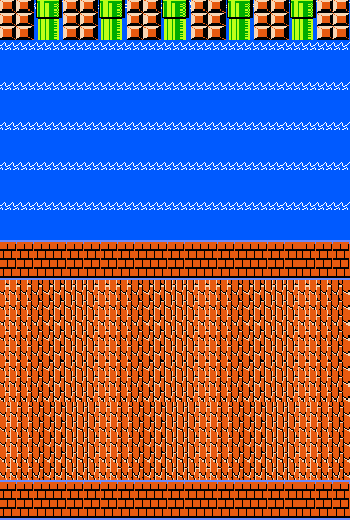
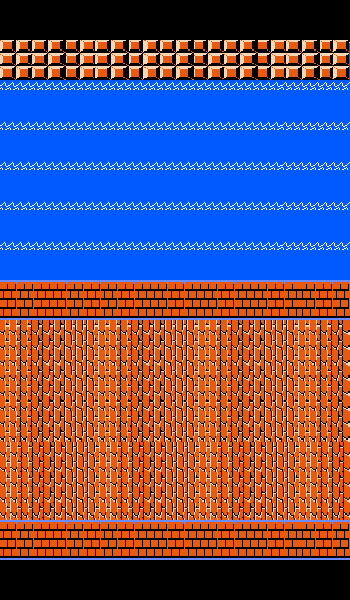
Added extra rows to the maps for a header and footer
git-svn-id: https://svn.neumont.edu:8443/svn/csc150finalgroup7@49 d5154090-6652-2845-be30-93a5ca2c7496

diff --git a/Frogger/src/edu/neumont/csc150/finalproject/finalgroup7/Config.java b/Frogger/src/edu/neumont/csc150/finalproject/finalgroup7/Config.java
@@ -124,7 +124,7 @@ public class Config {
 				addImageToMap(frogImageDownKey);
 				frogImageKeys.add(frogImageDownKey);
 
-				this.frog = new Frog(new Point(frogColumn * this.mapColumnWidth, (this.mapNumberOfRows - 1) * this.mapLaneHeight), frogImageKeys, this.imageMap.get(frogImageKeys.get(0)).getWidth(null));
+				this.frog = new Frog(new Point(frogColumn * this.mapColumnWidth, (this.mapNumberOfRows - 2) * this.mapLaneHeight), frogImageKeys, this.imageMap.get(frogImageKeys.get(0)).getWidth(null));
 
 				for (int laneIndex = 0; laneIndex < laneNodes.getLength(); laneIndex++) {
 					System.out.println("lane " + laneIndex + ":");
@@ -153,16 +153,13 @@ public class Config {
 						}
 						int spriteChangeTime = Integer.parseInt(curSprite.getElementsByTagName("ChangeTime").item(0).getFirstChild().getTextContent());
 
-						// String spriteImage =
-						// curSprite.getElementsByTagName("Image").item(0).getFirstChild().getTextContent();
 						if (spriteType.equals("Turtle")) {
 							this.lanes[laneIndex].addSprite(new Turtle(new Point(spriteXCoord, spriteYCoord), spriteImageKeys, this.imageMap.get(spriteImageKeys.get(0)).getWidth(null), spriteSpeed, spriteChangeTime));
 						} else if (spriteType.equals("Log")) {
-							// this.lanes[laneIndex].addSprite(new Log(new
-							// Point(spriteXCoord, spriteYCoord), spriteSpeed,
-							// spriteImageKeys, spriteChangeTime));
 						} else if (spriteType.equals("Car")) {
 							this.lanes[laneIndex].addSprite(new Enemy(new Point(spriteXCoord, spriteYCoord), spriteImageKeys, this.imageMap.get(spriteImageKeys.get(0)).getWidth(null), spriteSpeed, spriteChangeTime));
+						} else if (spriteType.equals("LillyPad")) {
+							this.lanes[laneIndex].addSprite(new LillyPad(new Point(spriteXCoord, spriteYCoord), spriteImageKeys, this.imageMap.get(spriteImageKeys.get(0)).getWidth(null)));
 						}
 					} // end Sprites
 				} // end Lanes

diff --git a/Frogger/src/edu/neumont/csc150/finalproject/finalgroup7/Enemy.java b/Frogger/src/edu/neumont/csc150/finalproject/finalgroup7/Enemy.java
@@ -4,7 +4,6 @@ import java.awt.Point;
 import java.util.ArrayList;
 
 public class Enemy extends Sprite {
-	protected boolean isFriendly;
 	protected int speed;
 	protected int changeTimeDefault;
 	protected int changeTime;
@@ -12,7 +11,7 @@ public class Enemy extends Sprite {
 	public Enemy(Point startPosition, ArrayList<String> imageKeys, int width, int spriteSpeed, int changeTime) {
 		super(startPosition, imageKeys, width);
 		this.speed = spriteSpeed;
-		this.isFriendly = false;
+		super.friendly = false;
 		this.changeTimeDefault = changeTime;
 		this.changeTime = changeTime;
 
@@ -20,10 +19,6 @@ public class Enemy extends Sprite {
 
 	public int getSpeed() {
 		return this.speed;
-	}
-
-	public boolean isFriendly() {
-		return this.isFriendly;
 	}
 
 	@Override

diff --git a/Frogger/src/edu/neumont/csc150/finalproject/finalgroup7/Game.java b/Frogger/src/edu/neumont/csc150/finalproject/finalgroup7/Game.java
@@ -68,11 +68,20 @@ public class Game {
 		for (Sprite s : sprites) {
 			if (this.frog.checkCollision(s)) {
 				System.out.println("COLLIDED: " + s.toString());
-				if (s instanceof Turtle && ((Turtle) s).isFriendly) {
-					frog.setSpeed(((Turtle) s).speed);
-					frog.move();
-				} else {
+				// If it is not friendly, then kill the frog.
+				if (!s.isFriendly()) {
 					killFrog();
+				} else {
+					// If it is a Log 
+					if (s instanceof Log) {
+						frog.setSpeed(((Log) s).getSpeed());
+						frog.move();
+					}
+					// If it is a LillyPad
+					else if (s instanceof LillyPad) {
+						frog.reset();
+						s.setImage(LillyPad.lillypad_completed.COMPLETED.ordinal());
+					}
 				}
 			}
 

diff --git a/Frogger/src/edu/neumont/csc150/finalproject/finalgroup7/Turtle.java b/Frogger/src/edu/neumont/csc150/finalproject/finalgroup7/Turtle.java
@@ -3,7 +3,7 @@ package edu.neumont.csc150.finalproject.finalgroup7;
 import java.awt.Point;
 import java.util.ArrayList;
 
-public class Turtle extends Enemy {
+public class Turtle extends Log {
 	
 	public Turtle(Point startPosition, ArrayList<String> imageKeys, int width, int spriteSpeed, int changeTime) {
 		super(startPosition, imageKeys, width, spriteSpeed, changeTime);
@@ -14,10 +14,9 @@ public class Turtle extends Enemy {
 		super.move();
 		// if the image is set to transparent, then make the rutle evil.
 		if (super.getImageKey().equals("Transparent.png")) {
-			super.isFriendly = false;
-		}
-		
+			super.friendly = false;
+		} else {
+			super.friendly = true;
+		}		
 	}
-	
-
 }

diff --git a/Frogger/src/edu/neumont/csc150/finalproject/finalgroup7/Sprite.java b/Frogger/src/edu/neumont/csc150/finalproject/finalgroup7/Sprite.java
@@ -9,6 +9,7 @@ public abstract class Sprite {
 	protected Point position;
 	protected int imageIndex;
 	protected int width;
+	protected boolean friendly;
 
 	public Sprite(Point startPosition, ArrayList<String> imageKeys, int width) {
 
@@ -16,6 +17,11 @@ public abstract class Sprite {
 		this.setImage(0);
 		this.position = startPosition;
 		this.width = width;
+		this.friendly = true;
+	}
+	
+	public boolean isFriendly() {
+		return this.friendly;
 	}
 
 	public String getImageKey() {

diff --git a/Frogger/src/edu/neumont/csc150/finalproject/finalgroup7/Controller.java b/Frogger/src/edu/neumont/csc150/finalproject/finalgroup7/Controller.java
@@ -5,7 +5,7 @@ public class Controller {
 	public static void main(String[] args) {
 
 		// Open the Map Loader Panel
-		Config currentMap = new Config("lvl01.xml");
+		Config currentMap = new Config("lvl02.xml");
 
 		// // Start main frogger game with selected map
 		Game currentGame = new Game(currentMap);

diff --git a/Frogger/src/edu/neumont/csc150/finalproject/finalgroup7/GamePanel.java b/Frogger/src/edu/neumont/csc150/finalproject/finalgroup7/GamePanel.java
@@ -36,7 +36,7 @@ public class GamePanel extends JPanel {
 		this.addKeyListener(new PanelKeyListener());
 
 		// TODO set preferredSize
-		this.setPreferredSize(new Dimension(350, 520));
+		this.setPreferredSize(new Dimension(350, 600));
 
 		frame.setContentPane(this);
 		frame.pack();

diff --git a/Frogger/src/edu/neumont/csc150/finalproject/finalgroup7/Frog.java b/Frogger/src/edu/neumont/csc150/finalproject/finalgroup7/Frog.java
@@ -17,6 +17,7 @@ public class Frog extends Sprite {
 
 	public Frog(Point startPosition, ArrayList<String> imageKeys, int width) {
 		super(startPosition, imageKeys, width);
+		super.friendly = true;
 		this.startingLocation = startPosition;
 		this.speed = 0;
 	}
